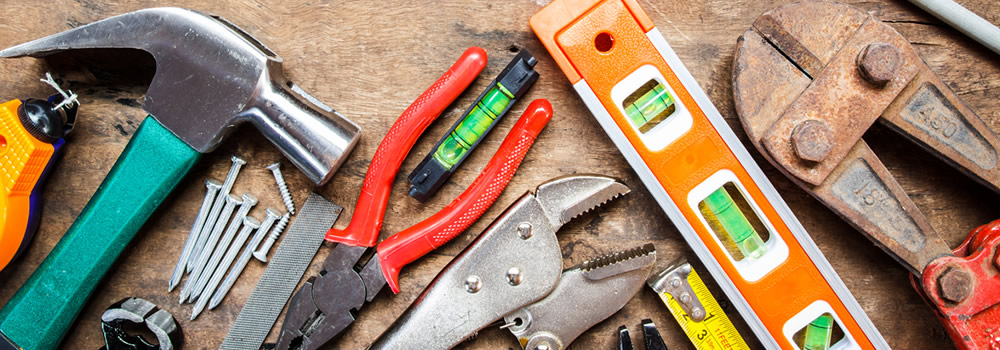
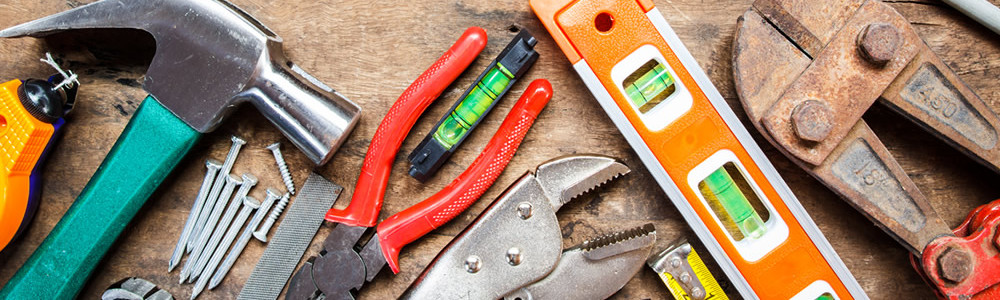
Modificata la homepage e la pagina di registrazione

diff --git a/Manutenza-web/src/main/webapp/manutenzastyle.css b/Manutenza-web/src/main/webapp/manutenzastyle.css
@@ -43,7 +43,7 @@ h2 {
 .jumbotron{
     background: url("images/jumbo4.jpg") no-repeat center top;
     background-size: cover;
-    height: 300px;
+    height: 250px;
     padding-bottom: 0;
     margin-bottom: 0;
 }
@@ -66,16 +66,36 @@ a, a:hover, a:focus {
     text-align: center;
 }
 
-.footer{
+.footer {
     background-color: #333333;
     position: absolute;
-    right: -175px;
-    bottom: 0;
-    left: -175px;
     padding: 1rem 60px;
-    height: 50px;
     color: #fffffa;
     font-size: 14px;
+    bottom: 0;
+}
+
+.home-footer {
+    right: 0;
+    left: 0;
+    height: 55px;
+}
+
+.main-footer{
+    height: 50px;
+    right: -175px;
+    left: -175px;
+}
+
+.home-container {
+    position: absolute;
+    z-index: 10;
+    left: 716px;
+}
+
+.home-background {
+    position: absolute;
+    top: 51px;
 }
 
 /* -----------------------------------------
@@ -85,6 +105,7 @@ a, a:hover, a:focus {
 .navbar {
     border-radius: 0px 0px;
     margin-bottom: 0px;
+    position: relative;
 }
 
 .navbar-default {      
@@ -339,8 +360,29 @@ a, a:hover, a:focus {
 
 }
 
+fieldset {
+    padding-bottom: 15px;
+}
+
+fieldset.sign-in {
+    padding-top: 15px;
+    padding-bottom: 0;
+}
+
+legend {
+    font-size: 36px;
+}
+
 label {
     font-size: 18px;
+}
+
+label.form-check-label {
+    font-size: 14px;
+}
+
+a.termini-condizioni, p.add-domicile, p.remove-domicile {
+    color: #ff9933;
 }
 
 .form-control {
@@ -416,6 +458,12 @@ input.currency {
     border-radius: 10px;
 }
 
+.btn-primary {
+    border-radius: 10px;
+    font-size: 18px;
+    font-weight: bolder;
+}
+
 .btn-img {
     padding: 0;
     border: none;
@@ -427,6 +475,11 @@ input.currency {
     top: 0;
     right: 20px;
     border-radius: 10px;
+}
+
+button.sign-in {
+    font-size: 14px;
+    font-weight: bolder;
 }
 
 .btn-badge {

diff --git a/Manutenza-web/src/main/java/it/unito/taass/irevaleo/controller/RegistraUtente.java b/Manutenza-web/src/main/java/it/unito/taass/irevaleo/controller/RegistraUtente.java
@@ -39,13 +39,24 @@ public class RegistraUtente extends HttpServlet {
         Calendar dataDiNascita = Utilita.getDataDiNascita(request.getParameter("dataDiNascita"));
         String codiceFiscale = request.getParameter("codiceFiscale");
         String email = request.getParameter("email");
-        //String password = request.getParameter("password");
 
-        /* DATI INDIRIZZO PRELEVATI DALLA FORM */
-        String citta = request.getParameter("citta");
-        String via = request.getParameter("indirizzo");
-        String provincia = request.getParameter("provincia");
-        String cap = request.getParameter("cap");
+        /* DATI DOMICILIO 1 */
+        String citta1 = request.getParameter("citta1");
+        String via1 = request.getParameter("indirizzo1");
+        String provincia1 = request.getParameter("provincia1");
+        String cap1 = request.getParameter("cap1");
+        
+        /* DATI DOMICILIO 2 */
+        String citta2 = request.getParameter("citta2");
+        String via2 = request.getParameter("indirizzo2");
+        String provincia2 = request.getParameter("provincia2");
+        String cap2 = request.getParameter("cap2");
+        
+        /* DATI DOMICILIO 3 */
+        String citta3 = request.getParameter("citta3");
+        String via3 = request.getParameter("indirizzo3");
+        String provincia3 = request.getParameter("provincia3");
+        String cap3 = request.getParameter("cap3");
 
         /* CREAZIONE NUOVO UTENTE */
         Utente utente = new Utente();
@@ -54,15 +65,36 @@ public class RegistraUtente extends HttpServlet {
         utente.setDataDiNascita(dataDiNascita);
         utente.setCodiceFiscale(codiceFiscale);
         utente.setEmail(email);
-        //utente.setPassword(password);
         
-        /*CREAZIONE NUOVO INDIRIZZO UTENTE */
+        /* CREAZIONE DOMICILIO 1 */
         Indirizzo indirizzo = new Indirizzo();
-        indirizzo.setVia(via);
-        indirizzo.setCitta(citta);
-        indirizzo.setProvincia(provincia);
-        indirizzo.setCap(cap);
+        indirizzo.setVia(via1);
+        indirizzo.setCitta(citta1);
+        indirizzo.setProvincia(provincia1);
+        indirizzo.setCap(cap1);
         utente.addIndirizzo(indirizzo);
+        
+        //se l'utente ha inserito un secondo domicilio
+        if(citta2 != null) {
+            /* CREAZIONE DOMICILIO 2 */
+            Indirizzo indirizzo2 = new Indirizzo();
+            indirizzo2.setVia(via2);
+            indirizzo2.setCitta(citta2);
+            indirizzo2.setProvincia(provincia2);
+            indirizzo2.setCap(cap2);
+            utente.addIndirizzo(indirizzo2);
+        }
+        
+        //se l'utente ha inserito un terzo domicilio
+        if(citta3 != null) {
+            /* CREAZIONE DOMICILIO 3 */
+            Indirizzo indirizzo3 = new Indirizzo();
+            indirizzo3.setVia(via3);
+            indirizzo3.setCitta(citta3);
+            indirizzo3.setProvincia(provincia3);
+            indirizzo3.setCap(cap3);
+            utente.addIndirizzo(indirizzo3);
+        }
 
         /* REGISTRO UTENTE SU DB */
         gestoreUtente.registraUtente(utente);

diff --git a/Manutenza-web/src/main/java/it/unito/taass/irevaleo/controller/MainController.java b/Manutenza-web/src/main/java/it/unito/taass/irevaleo/controller/MainController.java
@@ -56,11 +56,15 @@ public class MainController extends HttpServlet {
         
         /* ### AVVIO DELL'APPLICAZIONE ### */
 	if(action == null){
-	    ctx.getRequestDispatcher("/index.html").forward(request, response); //vai alla index
+	    ctx.getRequestDispatcher("/jsp/home.jsp").forward(request, response); //vai alla homepage
 	}
         
         else if(action.equals("home")) {
            ctx.getRequestDispatcher("/jsp/home.jsp").forward(request, response);
+        }
+        
+        else if(action.equals("test")) {
+           ctx.getRequestDispatcher("/jsp/test.jsp").forward(request, response);
         }
         
         /* ### TEST PAGES ### */
@@ -154,7 +158,7 @@ public class MainController extends HttpServlet {
         /* ### LOGOUT ### */
 	else if(action.equals("logout") && s.getAttribute("utente")!=null){
 	    s.invalidate(); //distrugge la sessione
-	    ctx.getRequestDispatcher("/index.html").forward(request, response); //vai alla index
+	    ctx.getRequestDispatcher("/jsp/home.jsp").forward(request, response); //vai alla homepage
 	}
         
         /* ### AZIONI NON GESTITE -> ERRORE! ### */
